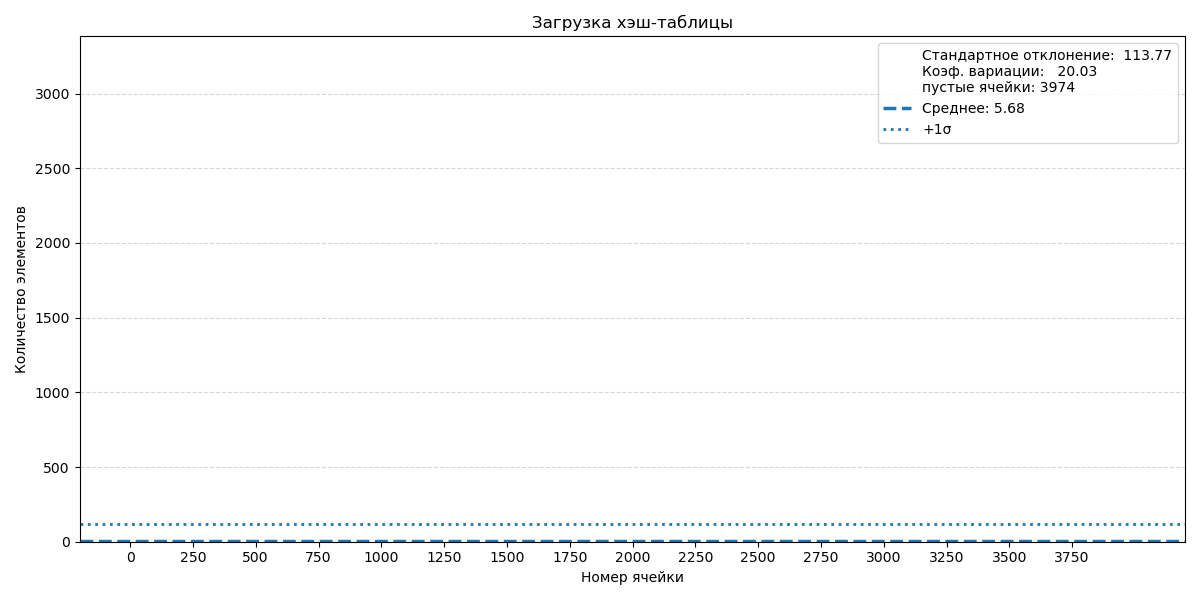
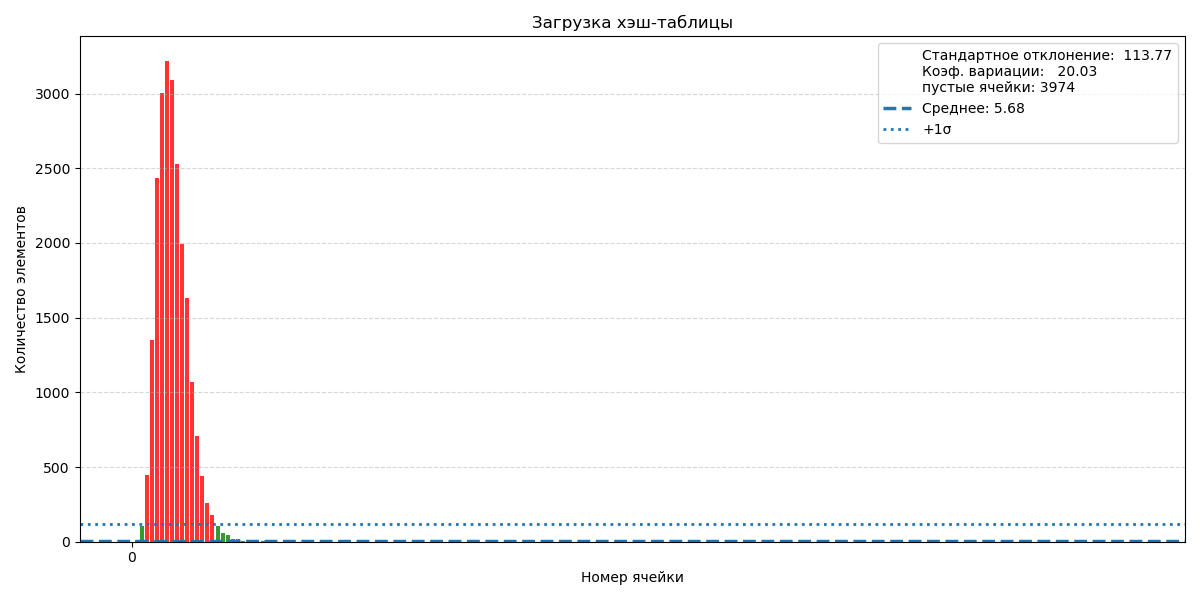
correcteed len  diagram

diff --git a/src/measures/handler.cpp b/src/measures/handler.cpp
@@ -63,19 +63,19 @@ void buildDiagram(int* x, int* y, int nValues, const char* fileName){
     fprintf(pyDiagramFile, "std = %.2f\n",  std);
 
     fprintf(pyDiagramFile, "colors = []\n");
-    fprintf(pyDiagramFile, "for v in values:\n",             std);
-    fprintf(pyDiagramFile, "\tif v > mean + std:\n",         std);
-    fprintf(pyDiagramFile, "\t\tcolors.append('red')\n",     std);
-    fprintf(pyDiagramFile, "\telif v < mean - std:\n",             std);
-    fprintf(pyDiagramFile, "\t\tcolors.append('red')\n",  std);
-    fprintf(pyDiagramFile, "\telse:\n",  std);
-    fprintf(pyDiagramFile, "\t\tcolors.append('green')\n",   std);
+    fprintf(pyDiagramFile, "for v in values:\n");
+    fprintf(pyDiagramFile, "\tif v > mean + std:\n");
+    fprintf(pyDiagramFile, "\t\tcolors.append('red')\n");
+    fprintf(pyDiagramFile, "\telif v < mean - std:\n");
+    fprintf(pyDiagramFile, "\t\tcolors.append('red')\n");
+    fprintf(pyDiagramFile, "\telse:\n");
+    fprintf(pyDiagramFile, "\t\tcolors.append('green')\n");
     
-    fprintf(pyDiagramFile, "plt.bar(cellNum, values, color = colors, alpha=0.8)\n");
+    fprintf(pyDiagramFile, "plt.bar(range(len(values)), values, color = colors, alpha=0.8)\n");
 
     fprintf(pyDiagramFile, "stats = (\n");
     // fprintf(pyDiagramFile, "f\"Среднее: %.2f\\n\"\n", mean);
-    fprintf(pyDiagramFile, "f\"Стандартное отклонение:  %.2f\\n\"\n", std );
+    fprintf(pyDiagramFile, "f\"Стандартное отклонение:  %.2f\\n\"\n");
     fprintf(pyDiagramFile, "f\"Коэф. вариации:   %.2f\\n\"\n", cv  );
     fprintf(pyDiagramFile, "f\"пустые ячейки: {values.count(0)}\"\n");
     fprintf(pyDiagramFile, ")\n");

diff --git a/src/main.cpp b/src/main.cpp
@@ -28,7 +28,6 @@ struct hashFunctionInfo_t {
 
 hashFunctionInfo_t hashFuncsInfo[] = {
     {constHash,    "images/diagrams/constHashLoad.png"    },
-    {lenHash,      "images/diagrams/lenHashLoad.png"      },
     {sumHash,      "images/diagrams/sumHashLoad.png"      },
     {firstSymHash, "images/diagrams/firstSymHashLoad.png" },
     {gnuHash,      "images/diagrams/gnuHashLoad.png"      },

diff --git a/diagram.py b/diagram.py
@@ -18,7 +18,7 @@ for v in values:
 		colors.append('red')
 	else:
 		colors.append('green')
-plt.bar(cellNum, values, color = colors, alpha=0.8)
+plt.bar(range(200), values[:200], color = colors, alpha=0.8)
 stats = (
 f"Стандартное отклонение:  113.77\n"
 f"Коэф. вариации:   20.03\n"
